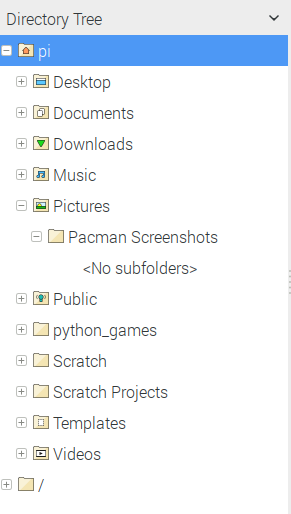
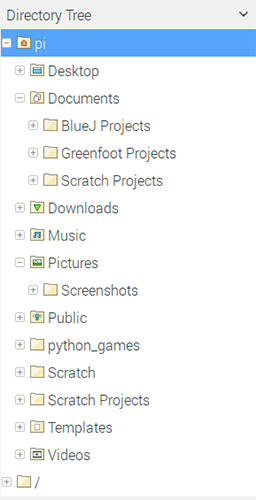
file manager pics

diff --git a/en/step_5.md b/en/step_5.md
@@ -39,9 +39,7 @@ The filesystem is how files and directories on your computer are organised. A fi
 
 |                                              |                                              |
 | :------------------------------------------: | :------------------------------------------: |
-|                                              |                                              |
-
-IMAGE OF FILE SYSTEM CHANGE FILEMANAGER IMAGE TOO ![File Manager](images/filemanager.png)
+| ![File Manager](images/filemanager.png)      | ![File Tree](images/filetree.png)            |
 
 
 ### Changing Directory
@@ -56,7 +54,7 @@ cd Documents/
 
 Here, we navigated into the **Documents/** directory.
 
-The terminal tells us that we are in **Documents/**:
+The terminal tells us here that we are in **Documents/**:
 
 ![CD Documents path](images/cddocumentspath.png)
 
